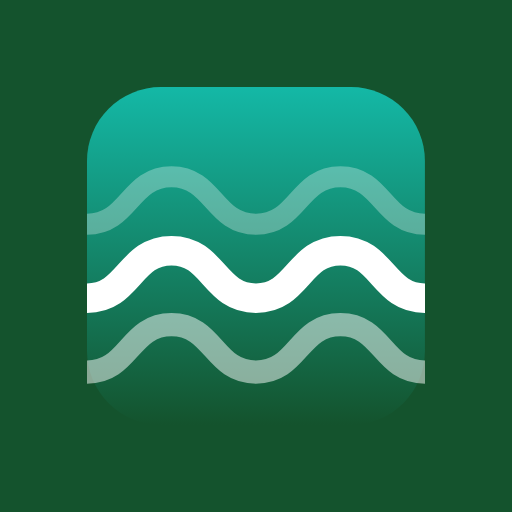
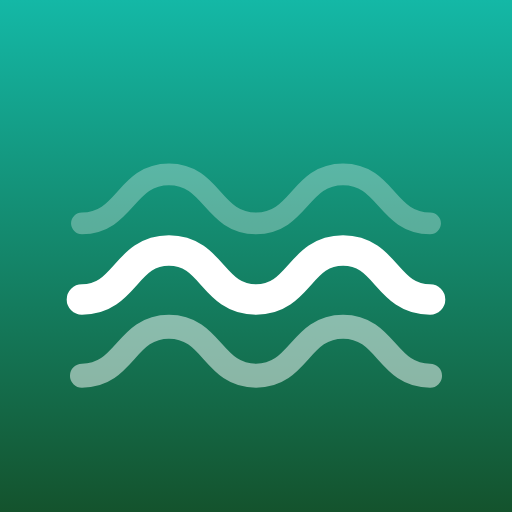
Правки по мобильной версии
Окно заметки на телефоне перекрывает страницу. Цвета заметок в тёмных темах
полупрозрачные (bg-gray-800/40 и подобные), и сквозь развёрнутое на весь экран
окно был виден список под ним. Подложка окна теперь сплошная и своя у каждой
темы — цвета те же, что уходят в строку состояния установленного приложения.
Правило действует только до sm: на десктопе окно снова висит над затемнением.

Нижней полосы с кнопкой Close у заметки больше нет — закрывает крестик в шапке,
вторая кнопка с той же работой занимала строку внизу экрана.

Иконки приложения перерисованы из wave.svg — того же файла, что даёт иконку
сайта. Старые 192, maskable и apple-touch были обрезаны до правого нижнего угла
на прозрачном фоне, поэтому картинка не читалась; 512 уже была верной и не
изменилась. У maskable волны ужаты в безопасную зону, у apple-touch углы не
скруглены — iOS скругляет сам. Версия сервис-воркера поднята, иначе он отдавал
бы старые иконки из кеша.

Выбор дня напротив каждой задачи в расписании убран.

Починена правка времени существующей задачи на телефоне. Строка закрывалась по
blur, а решение принималось по relatedTarget — в мобильных браузерах он приходит
пустым, когда касание открывает системный выбор времени, и правка закрывалась в
тот же миг. Теперь смотрим, где фокус оказался, а не куда он шёл.

Картинки в задаче открываются на весь экран, как вложения в заметке. Escape
закрывает слои по одному: сначала картинку, потом редактор.
[…]

diff --git a/src/components/TaskEditor.jsx b/src/components/TaskEditor.jsx
@@ -63,6 +63,8 @@ export default function TaskEditor({
   const [targetColumnId, setTargetColumnId] = useState('');
   const [showHistory, setShowHistory] = useState(false);
   const [isUploading, setIsUploading] = useState(false);
+  // Открытая на весь экран картинка вложения; null — просмотрщик закрыт
+  const [viewerIndex, setViewerIndex] = useState(null);
   const [colorPickerOpen, setColorPickerOpen] = useState(false);
   const colorPickerRef = useRef(null);
   // Список уже существующих лейблов проекта: выбрать из него быстрее и надёжнее,
@@ -325,6 +327,8 @@ export default function TaskEditor({
       sheet
       onClose={onClose}
       closeOnBackdrop={false}
+      // Пока открыта картинка, Escape закрывает её, а не редактор под ней
+      closeOnEsc={viewerIndex === null}
       /* На телефоне редактор занимает экран целиком: рамка, скругления и поля
          вокруг съедали бы ширину, которой в форме и так впритык */
       panelClassName={`max-h-[100dvh] sm:max-h-[calc(100vh-3rem)] overflow-hidden rounded-none sm:rounded-lg border-0 sm:border shadow-xl ${bgClass} ${cardBorderClass}`}
@@ -760,10 +764,21 @@ export default function TaskEditor({
                   <div className="mt-4 grid grid-cols-2 gap-4">
                     {images.map((img, idx) => (
                       <div key={idx} className="relative group">
-                        <img src={img} alt="Task" className="w-full h-32 object-cover rounded-lg" />
+                        {/* Превью обрезано по квадрату, поэтому картинку нужно уметь
+                            открыть целиком — иначе всё, что не влезло в 128px, видно
+                            только после скачивания */}
+                        <img
+                          src={img}
+                          alt={`Task image ${idx + 1}`}
+                          onClick={() => setViewerIndex(idx)}
+                          className="w-full h-32 object-cover rounded-lg cursor-zoom-in transition duration-150 hover:brightness-95"
+                        />
                         <button
                           onClick={() => removeImage(idx)}
-                          className="absolute top-1 right-1 bg-red-600 text-white rounded-full p-1 opacity-0 group-hover:opacity-100 transition"
+                          title="Remove image"
+                          aria-label="Remove image"
+                          /* На телефоне наведения нет — крестик виден сразу */
+                          className="absolute top-1 right-1 bg-red-600 text-white rounded-full p-1 opacity-100 sm:opacity-0 sm:group-hover:opacity-100 transition"
                         >
                           <X size={16} />
                         </button>
@@ -830,6 +845,22 @@ export default function TaskEditor({
               {isUploading ? 'Please wait...' : 'Save'}
             </button>
           </div>
+
+      {/* Картинка на весь экран: клик в любом месте — закрыть */}
+      {viewerIndex !== null && images[viewerIndex] && (
+        <Modal
+          onClose={() => setViewerIndex(null)}
+          layer="viewer"
+          size="full"
+          overlayClassName="cursor-zoom-out"
+        >
+          <img
+            src={images[viewerIndex]}
+            alt={`Task image ${viewerIndex + 1}`}
+            className="max-w-full max-h-full rounded-lg object-contain"
+          />
+        </Modal>
+      )}
     </Modal>
   );
 }

diff --git a/src/components/WeeklyTodo.jsx b/src/components/WeeklyTodo.jsx
@@ -93,10 +93,18 @@ export default function WeeklyTodo({ weeklyTasks, addWeeklyTask, deleteWeeklyTas
 
   // Правку закрываем, только когда фокус ушёл из строки целиком. Переход с текста
   // на поле времени — это всё ещё правка той же задачи: иначе до времени
-  // не добраться, редактор закрывался бы на первом же клике по нему
+  // не добраться, редактор закрывался бы на первом же клике по нему.
+  //
+  // Смотрим, где фокус оказался, а не куда он шёл: relatedTarget в мобильных
+  // браузерах приходит пустым, когда касание открывает системный выбор времени.
+  // По нему выходило, что фокус ушёл со строки, правка закрывалась в тот же миг,
+  // и время существующей задачи на телефоне поменять было нельзя.
   const handleEditBlur = (e) => {
-    if (e.currentTarget.contains(e.relatedTarget)) return;
-    saveEditing();
+    const row = e.currentTarget;
+    setTimeout(() => {
+      if (row.contains(document.activeElement)) return;
+      saveEditing();
+    }, 0);
   };
 
   const handleTaskDragStart = (e, day, task) => {
@@ -380,25 +388,6 @@ export default function WeeklyTodo({ weeklyTasks, addWeeklyTask, deleteWeeklyTas
                       >
                         <Edit2 size={12} className={darkMode ? 'text-green-400' : 'text-green-600'} />
                       </button>
-                      {/* Перенос на другой день для телефона: строки таскают мышью,
-                          а drag-and-drop не отвечает на касания. Список дней — родной
-                          select: он открывается системным выбором поверх всего, тогда
-                          как своё выпадающее меню обрезал бы скролл карточки дня */}
-                      <select
-                        value={day}
-                        onChange={e => moveWeeklyTask(weekKey, day, e.target.value, task.id)}
-                        onClick={e => e.stopPropagation()}
-                        title="Move to another day"
-                        aria-label="Move to another day"
-                        className={`sm:hidden flex-shrink-0 w-[3.25rem] px-1 py-1 text-[11px] rounded border bg-transparent focus:outline-none focus:border-green-500 ${
-                          darkMode ? 'border-gray-700 text-gray-400' : 'border-gray-200 text-gray-500'
-                        }`}
-                      >
-                        {weekDays.map(target => (
-                          <option key={target} value={target}>{target.slice(0, 3)}</option>
-                        ))}
-                      </select>
-
                       <button
                         onClick={() => deleteWeeklyTask(weekKey, day, task.id)}
                         title="Delete task"

diff --git a/src/index.css b/src/index.css
@@ -1240,6 +1240,23 @@ html.theme-millenial :focus-visible {
    читаться. Поверхность самой колонки у большинства тем полупрозрачная — сквозь
    неё видно фон страницы, и это задумано, — поэтому заголовку нужен свой
    непрозрачный цвет. Тон подобран так, чтобы совпадать с колонкой на глаз */
+/* Подложка окна, развёрнутого на весь экран. Только телефон: с sm окно снова
+   висит поверх страницы и затемнения, и сплошной фон был бы лишним.
+   Цвет равен фону страницы темы — те же значения, что уходят в строку
+   состояния установленного приложения (THEME_COLORS в themes.js) */
+@media (max-width: 639px) {
+  .sheet-backdrop {
+    background-color: var(--sheet-backdrop);
+  }
+}
+
+:root { --sheet-backdrop: #f9fafb; }
+html.theme-dark .sheet-backdrop { --sheet-backdrop: #111827; }
+html.theme-wizard .sheet-backdrop { --sheet-backdrop: #0a1418; }
+html.theme-surf .sheet-backdrop { --sheet-backdrop: #eaf7fb; }
+html.theme-millenial .sheet-backdrop { --sheet-backdrop: #245edb; }
+html.theme-handwriting .sheet-backdrop { --sheet-backdrop: #faf6ec; }
+
 .column-header {
   background-color: var(--column-header);
   box-shadow: inset 0 -1px 0 var(--column-header-line);
@@ -1298,7 +1315,7 @@ html.theme-handwriting {
   border-radius: 4px;
 }
 
-/* Значок темы обходит периметр по часовой стрелке из левого верхнего угла:
+/* Значок темы обходит периметр по часовой стрелке из левого нижнего угла:
    у каждой темы он свой — сова, рыба, скрепка. Отсчёт идёт от внутреннего края
    рамки, поэтому путь короче на её толщину. Значок держится прямо, не крутится */
 .chill-marker {
@@ -1357,18 +1374,18 @@ html.theme-handwriting .chill-square {
 
 @keyframes chill-square {
   0% {
-    transform: translate(0, 0);
-  }
-  25% {
-    transform: translate(calc(var(--chill-side) - 2px), 0);
-  }
-  50% {
-    transform: translate(calc(var(--chill-side) - 2px), calc(var(--chill-side) - 2px));
-  }
-  75% {
     transform: translate(0, calc(var(--chill-side) - 2px));
   }
-  100% {
+  25% {
     transform: translate(0, 0);
+  }
+  50% {
+    transform: translate(calc(var(--chill-side) - 2px), 0);
+  }
+  75% {
+    transform: translate(calc(var(--chill-side) - 2px), calc(var(--chill-side) - 2px));
+  }
+  100% {
+    transform: translate(0, calc(var(--chill-side) - 2px));
   }
 }

diff --git a/src/components/NoteModal.jsx b/src/components/NoteModal.jsx
@@ -387,16 +387,9 @@ export default function NoteModal({
           </div>
         )}
 
-        <div className={`flex justify-end px-4 py-3 border-t ${darkMode ? 'border-gray-700/60' : 'border-gray-200'}`}>
-          <button
-            onClick={onClose}
-            className={`px-4 py-1.5 text-sm rounded-lg border press ${
-              darkMode ? 'border-gray-700 text-gray-300 hover:bg-gray-700' : 'border-gray-200 text-gray-600 hover:bg-gray-100'
-            }`}
-          >
-            Close
-          </button>
-        </div>
+      {/* Нижней полосы с кнопкой Close нет: окно закрывает крестик в шапке,
+          и держать вторую кнопку с той же работой незачем — на телефоне она
+          к тому же занимала строку внизу развёрнутого на весь экран окна */}
 
       {/* Картинка на весь экран: клик в любом месте — закрыть */}
       {viewerIndex !== null && images[viewerIndex] && (

diff --git a/src/components/Modal.jsx b/src/components/Modal.jsx
@@ -46,7 +46,12 @@ export default function Modal({
     <div
       {...overlayProps}
       onClick={closeOnBackdrop && onClose ? onClose : undefined}
-      className={`fixed inset-0 ${isViewer ? 'z-viewer bg-black/80' : 'z-modal bg-black/40'} flex items-start sm:items-center justify-center ${
+      /* sheet-backdrop делает подложку сплошной на телефоне: цвета заметок в
+         тёмных темах полупрозрачные, и сквозь развёрнутое окно просвечивал
+         список под ним. С sm правило не действует, там снова затемнение */
+      className={`fixed inset-0 ${isViewer ? 'z-viewer bg-black/80' : 'z-modal bg-black/40'} ${
+        sheet ? 'sheet-backdrop' : ''
+      } flex items-start sm:items-center justify-center ${
         sheet ? 'p-0 sm:p-6' : 'p-3 sm:p-6'
       } overflow-y-auto animate-fade-in ${overlayClassName}`}
     >

diff --git a/public/sw.js b/public/sw.js
@@ -1,6 +1,6 @@
 // Сервис-воркер приложения: офлайн-оболочка и кеш статики.
 // Версию менять при изменении логики — старые кеши подчищаются на активации.
-const VERSION = 'stt-v3';
+const VERSION = 'stt-v4';
 const SHELL_CACHE = `${VERSION}-shell`;
 const ASSET_CACHE = `${VERSION}-assets`;
 
